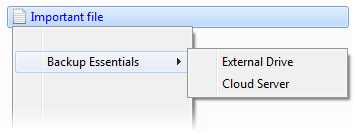
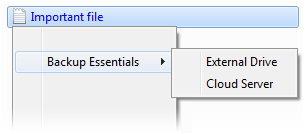
Updated Backup Guide images and rendering

diff --git a/BackupEssentials/Pages/HomeSub/BackupGuide.xaml b/BackupEssentials/Pages/HomeSub/BackupGuide.xaml
@@ -23,7 +23,7 @@
             <TextBlock Margin="6,2"><Run Text="Before you start backing up important files and folders, click "/><Bold><Run Text="Backup"/></Bold><Run Text=" in the menu and setup the locations where the files will be stored. Once that is done, there are two ways you can initiate a backup:"/></TextBlock>
         </WrapPanel>
 
-        <Grid Margin="6,12,6,0">
+        <Grid Margin="6,12,6,0" SnapsToDevicePixels="True" UseLayoutRounding="True">
             <Grid.ColumnDefinitions>
                 <ColumnDefinition Width="1*"/>
                 <ColumnDefinition Width="12"/>
@@ -33,9 +33,7 @@
             <WrapPanel Orientation="Vertical" UseLayoutRounding="True">
                 <TextBlock Style="{StaticResource TextBlockSubTitle}"><Run Text="1. Context menu"/></TextBlock>
                 <TextBlock Margin="6,2"><Run Text="Simply right-click a file or a folder, select Backup Essentials and choose the backup destination."/></TextBlock>
-                <Border Width="358" Height="136" Margin="6,4" BorderBrush="#FFACACAC" BorderThickness="1" HorizontalAlignment="Center" VerticalAlignment="Center">
-                    <Image Source="/BackupEssentials;component/Resources/Guide1.png" RenderOptions.BitmapScalingMode="NearestNeighbor" Width="356" Height="134" HorizontalAlignment="Center" VerticalAlignment="Center"/>
-                </Border>
+                <Image Source="/BackupEssentials;component/Resources/Guide1.png" RenderOptions.BitmapScalingMode="NearestNeighbor" Width="306" Height="134" Margin="0,6" HorizontalAlignment="Left" VerticalAlignment="Center"/>
                 <TextBlock x:Name="TextBlockContextMenuWarning" Margin="6,2" FontSize="12" Foreground="#FFDDDDDD" Opacity="0"><Run Text="Warning: Expanding menu is only available on Windows 7 and newer, your system will only show the Backup Essentials item. If you click it, you will be able to select the backup destination."/></TextBlock>
             </WrapPanel>
 
@@ -43,9 +41,7 @@
                 <TextBlock Style="{StaticResource TextBlockSubTitle}"><Run Text="2. Drag and Drop"/></TextBlock>
                 <TextBlock Margin="6,2"><Run Text="Select one or more files or folders, and drag them into this window. This requires the program to be running."/></TextBlock>
 
-                <Border Width="358" Height="252" Margin="6,4" BorderBrush="#FFACACAC" BorderThickness="1" HorizontalAlignment="Center" VerticalAlignment="Center">
-                    <Image Source="/BackupEssentials;component/Resources/Guide2.png" RenderOptions.BitmapScalingMode="NearestNeighbor" Width="356" Height="250" HorizontalAlignment="Center" VerticalAlignment="Center"/>
-                </Border>
+                <Image Source="/BackupEssentials;component/Resources/Guide2.png" RenderOptions.BitmapScalingMode="NearestNeighbor" Width="306" Height="230" Margin="0,6" HorizontalAlignment="Left" VerticalAlignment="Center"/>
             </WrapPanel>
         </Grid>
     </DockPanel>
